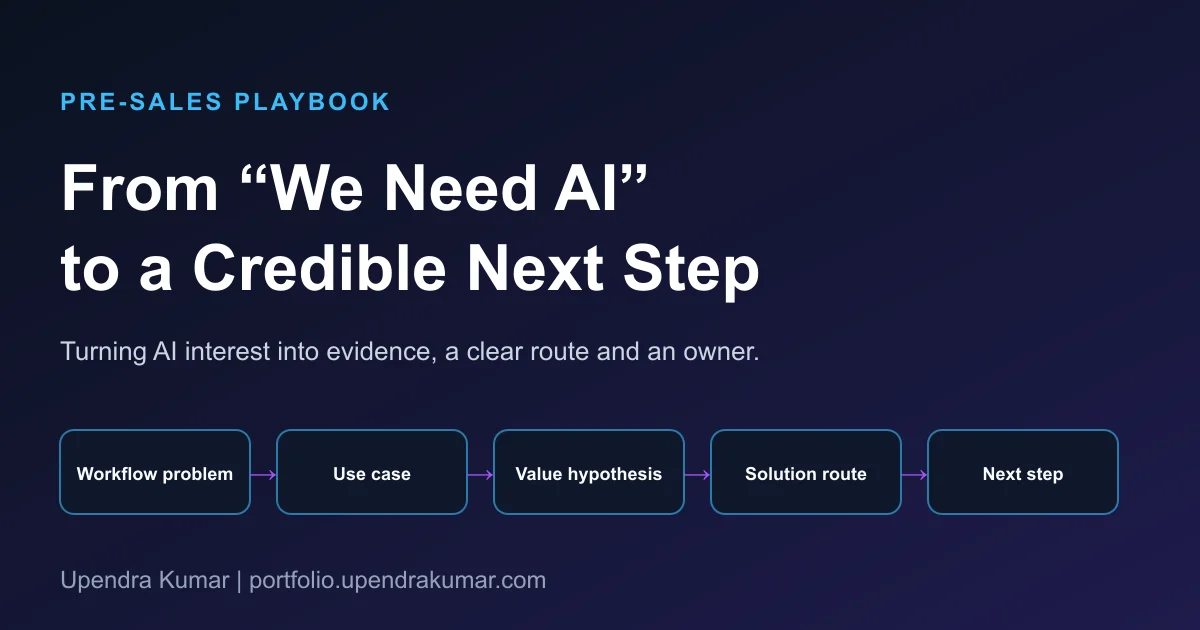
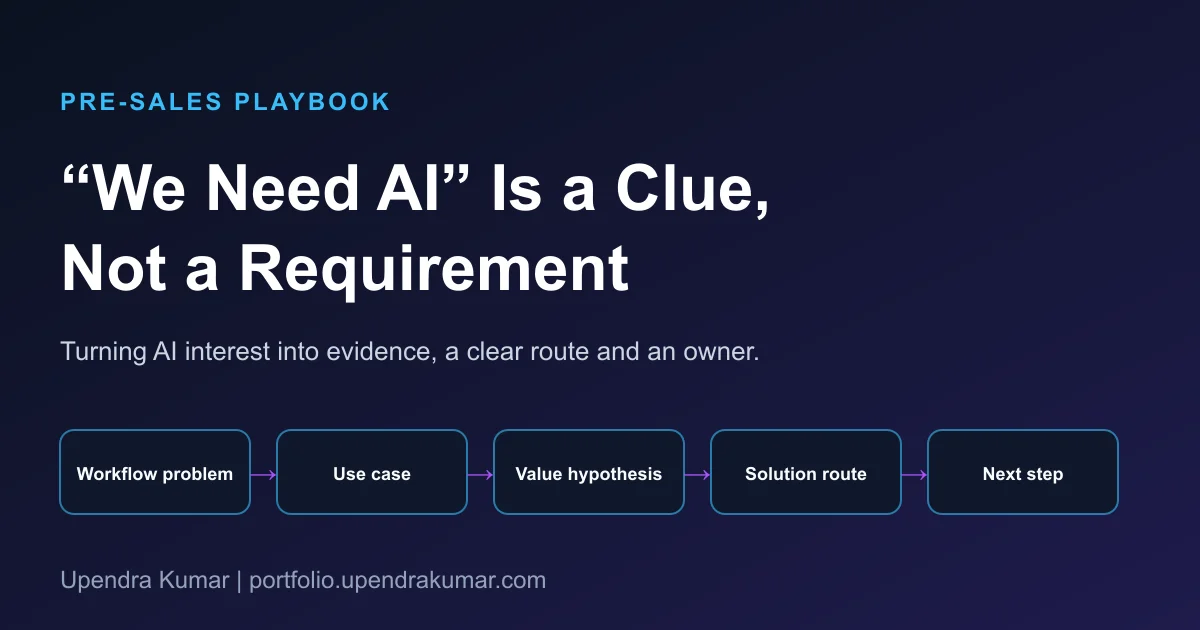
AI pre-sales post: retitle to '"We Need AI" Is a Clue, Not a Requirement'

Changed region(s): [[0.0308, 0.3619, 0.6475, 0.4825], [0.0308, 0.2413, 0.6475, 0.3619]]

diff --git a/site/blog/2026-10-27-ai-presales-playbook-from-interest-to-next-step.html b/site/blog/2026-10-27-ai-presales-playbook-from-interest-to-next-step.html
@@ -10,7 +10,7 @@
     <!-- Open Graph / Facebook -->
     <meta property="og:type" content="article">
     <meta property="og:url" content="https://portfolio.upendrakumar.com/blog/2026-10-27-ai-presales-playbook-from-interest-to-next-step.html">
-    <meta property="og:title" content="From “We Need AI” to a Credible Next Step: A Pre-Sales Playbook">
+    <meta property="og:title" content="“We Need AI” Is a Clue, Not a Requirement">
     <meta property="og:description"
         content="How I run an early AI opportunity: start with the work, prove value with evidence, route in three questions, and hand off with clear ownership.">
     <meta property="og:image" content="https://portfolio.upendrakumar.com/images/blog/2026-10-27-ai-presales-playbook-og.webp">
@@ -20,12 +20,12 @@
     <!-- Twitter -->
     <meta property="twitter:card" content="summary_large_image">
     <meta property="twitter:url" content="https://portfolio.upendrakumar.com/blog/2026-10-27-ai-presales-playbook-from-interest-to-next-step.html">
-    <meta property="twitter:title" content="From “We Need AI” to a Credible Next Step: A Pre-Sales Playbook">
+    <meta property="twitter:title" content="“We Need AI” Is a Clue, Not a Requirement">
     <meta property="twitter:description"
         content="How I run an early AI opportunity: start with the work, prove value with evidence, route in three questions, and hand off with clear ownership.">
     <meta property="twitter:image" content="https://portfolio.upendrakumar.com/images/blog/2026-10-27-ai-presales-playbook-og.webp">
 
-    <title>From “We Need AI” to a Credible Next Step | Upendra Kumar</title>
+    <title>“We Need AI” Is a Clue, Not a Requirement | Upendra Kumar</title>
     <link rel="canonical" href="https://portfolio.upendrakumar.com/blog/2026-10-27-ai-presales-playbook-from-interest-to-next-step.html">
 
     <link rel="stylesheet" href="../css/style.css?v=49">
@@ -42,7 +42,7 @@
     {
       "@context": "https://schema.org",
       "@type": "Article",
-      "headline": "From \"We Need AI\" to a Credible Next Step: A Pre-Sales Playbook",
+      "headline": "\"We Need AI\" Is a Clue, Not a Requirement",
       "image": "https://portfolio.upendrakumar.com/images/blog/2026-10-27-ai-presales-playbook-og.webp",
       "author": {
         "@type": "Person",
@@ -1084,7 +1084,7 @@
             </div>
 
             <h1 style="font-family: 'Outfit', sans-serif; font-size: 3rem; line-height: 1.2; margin-bottom: 1.5rem; background: linear-gradient(135deg, #ffffff 0%, #cbd5e1 100%); -webkit-background-clip: text; background-clip: text; -webkit-text-fill-color: transparent;">
-                From “We Need AI” to a Credible Next Step: A Pre-Sales Playbook
+                “We Need AI” Is a Clue, Not a Requirement
             </h1>
 
             <div class="blog-post-meta">

diff --git a/site/blog.html b/site/blog.html
@@ -237,7 +237,7 @@
                             <span><i class="fas fa-clock"></i> 12 min read</span>
                         </div>
                         <h3 class="blog-title-text">
-                            <a href="blog/2026-10-27-ai-presales-playbook-from-interest-to-next-step.html" class="gradient-text">From &ldquo;We Need AI&rdquo; to a Credible Next Step: A Pre-Sales Playbook</a>
+                            <a href="blog/2026-10-27-ai-presales-playbook-from-interest-to-next-step.html" class="gradient-text">&ldquo;We Need AI&rdquo; Is a Clue, Not a Requirement</a>
                         </h3>
                         <p style="color: var(--text-secondary); line-height: 1.6; margin-bottom: 1.5rem;">
                             How I run an early AI opportunity: start with the work, prove value with evidence, route in three questions, and hand off with clear ownership.
